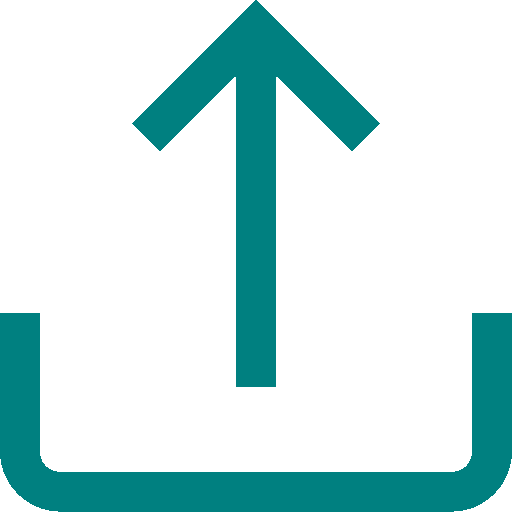
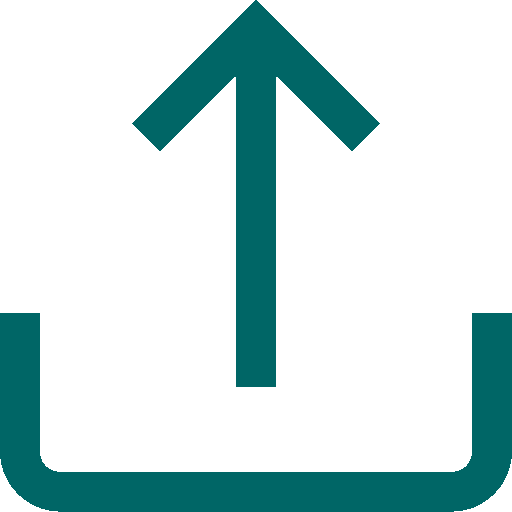
Eigenes Logog, überarbeitete Farben, Windowverschiebung

Changed region(s): [[0.0, 0.5938, 1.0, 1.0], [0.25, 0.0, 0.75, 0.7812]]

diff --git a/FileConverter/View/MainWindow.xaml b/FileConverter/View/MainWindow.xaml
@@ -28,7 +28,7 @@
         <SolidColorBrush x:Key="PandaBlue" Color="#FF00BCDF" />
         <!--  BasedOn="{StaticResource BaseButtonStyle}"-->
         <Style x:Key="MyButtonStyle" TargetType="{x:Type Button}">
-            <Setter Property="Background" Value="{StaticResource SOT1}"/>
+            <Setter Property="Background" Value="{StaticResource SOT2}"/>
             <Setter Property="Foreground" Value="{StaticResource Dark}"/>
             <Setter Property="Width" Value="110"/>
             <Setter Property="Height" Value="30"/>
@@ -43,7 +43,7 @@
             </Setter>
             <Style.Triggers>
                 <Trigger Property="IsMouseOver" Value="True">
-                    <Setter Property="Background" Value="{StaticResource SOT2}"/>
+                    <Setter Property="Background" Value="{StaticResource SOT3}"/>
                 </Trigger>
             </Style.Triggers>
         </Style>
@@ -89,8 +89,8 @@
             <RowDefinition Height="11*"/>
             <RowDefinition Height="*"/>
         </Grid.RowDefinitions>
-        <DockPanel Grid.Row="0" Background="{StaticResource SOT3}">
-            <Grid Height="27">
+        <DockPanel Grid.Row="0" Background="{StaticResource SOT4}" MouseLeftButtonDown="Grid_MouseLeftButtonDown">
+            <Grid Height="27" VerticalAlignment="Top">
                 <Grid.ColumnDefinitions>
                     <ColumnDefinition Width ="*"/>
                     <ColumnDefinition Width ="*"/>
@@ -281,7 +281,7 @@
         </Grid>
         <DockPanel Name="Infobar" 
                    Grid.Row="2">
-            <StatusBar DockPanel.Dock="Bottom" Background="{StaticResource SOT3}">
+            <StatusBar DockPanel.Dock="Bottom" Background="{StaticResource SOT4}">
                 <StatusBar.ItemsPanel>
                     <ItemsPanelTemplate>
                         <Grid>

diff --git a/FileConverter/View/MainWindow.xaml.cs b/FileConverter/View/MainWindow.xaml.cs
@@ -29,6 +29,11 @@ namespace FileConverter
                ((MainWindowViewModel)this.DataContext).AddFiles(droppedFilePaths);
             }
         }
+
+        private void Grid_MouseLeftButtonDown(object sender, System.Windows.Input.MouseButtonEventArgs e)
+        {
+            DragMove();
+        }
     }
 }
 
